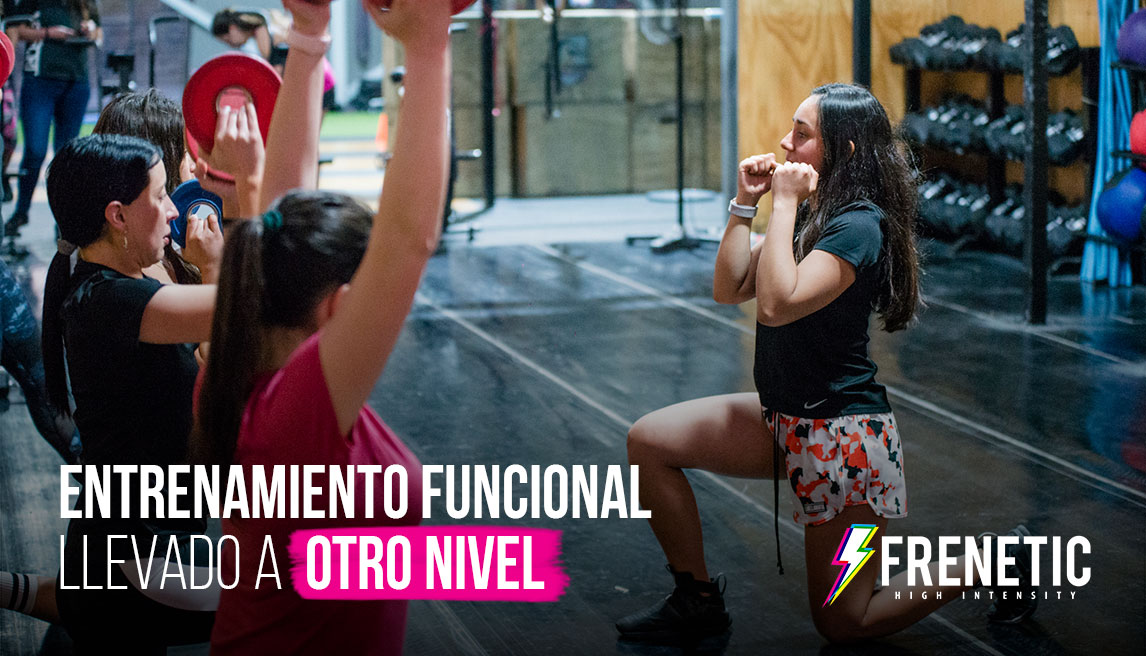
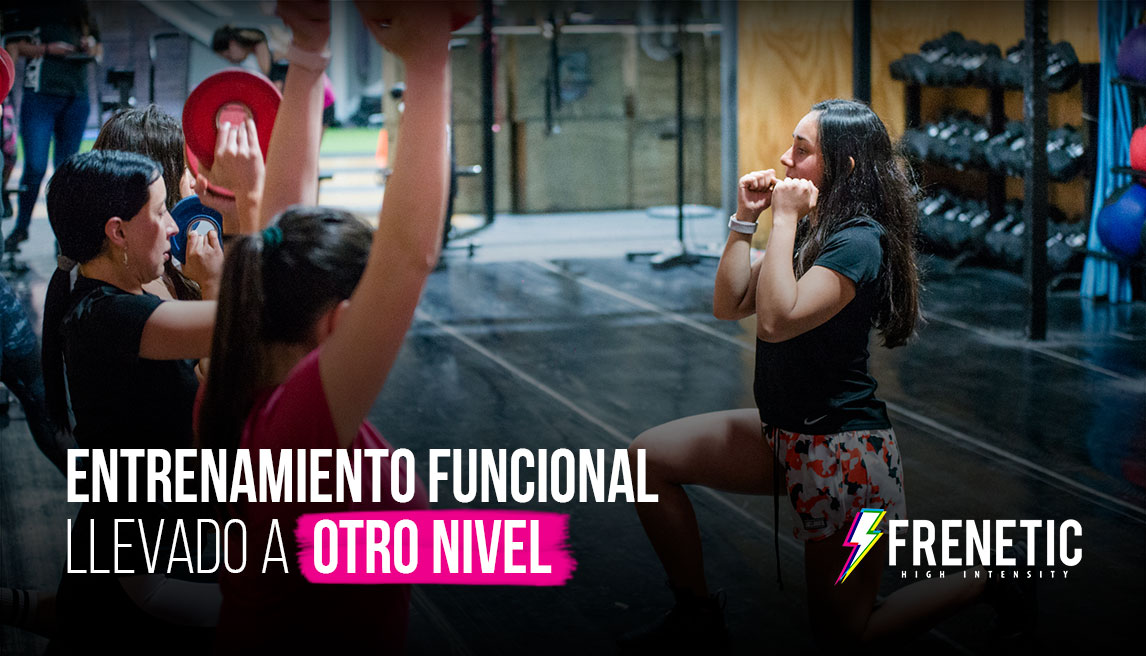
test 1 slides

diff --git a/public/css/pura-sangre-crossfit.webflow-dist.css b/public/css/pura-sangre-crossfit.webflow-dist.css
@@ -1239,7 +1239,8 @@ div#fb-root {
 @media (min-width: 1100px) {
   .slider-2 {
     /* height: 52vh; */
-    min-height: 730px;
+    /* min-height: 730px; */
+    min-height: 700px;
   }
 }
 
@@ -1302,7 +1303,7 @@ div#fb-root {
   background-position: center;
   background-size: cover;
 }
-@media (min-width: 400px) {
+@media (min-width: 769px) {
   .slide-1 {
     background-image: url('../images/hero-gimnacio-1-l.jpg');
     background-position: center;

diff --git a/public/css/pura-sangre-crossfit.webflow.css b/public/css/pura-sangre-crossfit.webflow.css
@@ -1181,7 +1181,8 @@ div#fb-root {
 @media (min-width: 1100px) {
   .slider-2 {
     /* height: 52vh; */
-    min-height: 730px;
+    /* min-height: 730px; */
+    min-height: 700px;
   }
 }
 
@@ -1244,7 +1245,7 @@ div#fb-root {
   background-position: center;
   background-size: cover;
 }
-@media (min-width: 400px) {
+@media (min-width: 769px) {
   .slide-1 {
     background-image: url('../images/hero-gimnacio-1-l.jpg');
     background-position: center;
